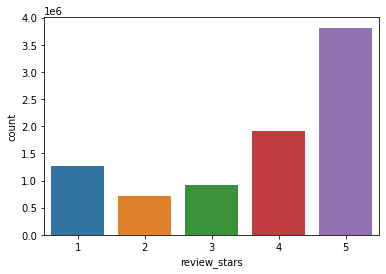
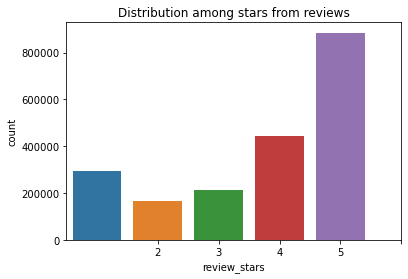
Basic Rough draft

Changed region(s): [[0.0, 0.0292, 0.9948, 0.9927], [0.0622, 0.2336, 0.1244, 0.292]]

diff --git a/README.md b/README.md
@@ -20,7 +20,19 @@ This could give the company insights not easily available on sites where ratings
 
 > Show demo of model
 
-### Technology Stack
+Link: <Pending Link>
+
+Currently the LogisticRegression model is a viable candidate to be used in production for analyzing reviews of services or food. 
+
+Current Stats: 
+
+**Classification Report:**
+
+![Classification Report](2million_classificationReport_linReg.PNG)
+
+
+
+## Technology Stack
 
 I'll be using these technologies for this project:
 
@@ -51,27 +63,108 @@ This capstone uses the Yelp dataset found on [Kaggle](https://www.kaggle.com/yel
 * Tips Data
 * User Data
 
-The scope of this capstone only requires data from the Review Data JSON file to analyze. From this data I import it using 
+### Stage 1 - Read in From JSON files into Postgres
+
+**Overview**
+
+* Read in JSON files
+* General observations on the features found in each file
+* Modifying feature names to meet Postgres naming convention
+* Normalized the data to prepare for import to Postgres
+* Saved copies of each table as CSV file for backup incase Database goes down
+* Exported data into Postgres
+
+As stated above, Kaggle provided several JSON files with a large amount of data that needed to be stored in a location for easy access and provide a quick way to query data on the fly. As the files were read in Jupyter notebook a general observation was made to the feature names and amount each file contained to see what data I was dealing with along with the types associated with them. The business data contained a strange amount of attributes that had to be broken up into separate data frames to be normalized for Postgres. 
+
+### Stage 2 -  Pre-Processing Data
+
+**Overview**
+
+* Read in data from Postgres
+* IDing Null Values
+* Removing Sparse features
+* Saved data frame as a pickle to be used in model training
+
+### Stage 3 - Cleaning Up Data
+
+**Overview**
+
+* Removed special characters, dates, emails, and URLs
+* Removed stop_words
+* Remove non-English reviews
+* [IMPROVE] Replace contractions
+* [IMPROVE] Remove newline and tab characters
+* [IMPROVE] Balance Data with either SMOTE or Oversampling
 
 ## Elementary Data Analysis
 
-Aggregating all the data I looked at the null values found in the dataset:
+### Analyzing Null Values in Dataset
 
-![Heatmap of several million rows of data.](C:\Users\RSanchez\GitHub\Sentiment_Analysis\null_heatmap.png)
+Below is a visualization of the data provided by Kaggle showing which features have "NaN " values. Its is clear that the review ratings (review_stars) and reviews (text) are fully populated. Some of the business attributes are sparse but have enough values to be useful for other things. Note several other features were dropped in the Data Processing since they did not provide any insights for the scope of this project.
 
-Looking at this I have reviews for every business 
+![Heatmap of several million rows of data.](null_heatmap.png)
 
-Analyzing the review data showed not that much to consider apart from that there was an imbalance in the data.
+### Looking Closer at the Ratings (review_stars)
 
-Below is a graph of the distribution of the ratings between 1 to 5:
+This is a sample of 2 million rows from the original 8 million in the dataset. This distribution of ratings has a left skew on it where most of the reviews are 4 to 5 stars.
 
 ![A bar graph showing the distribution of ratings between 1 to 5. there is a significant amount of 5 stars compared to 1-3 combined.](ratings_distribution.png)
 
+I simplified the ratings to better categorize the sentiment of the review by grouping 1 and 2 star reviews as 'negative', 3 star review as 'neutral', and 4 and 5 star reviews as 'positive'.
 
+![Simplified Barchar showing just the negative, neutral, and positive ratings](ratings_distribution_simplified.png)
+
+### Looking Closer at the Reviews (text)
+
+In order to analyze the text I've calculated the length of each review in the sample and plotted a distribution graph showing them the number of characters of each review. The statistics were that the median review was approx. 606 characters with a range of 0 through 5000 characters.
+
+
+
+![Showing a distribution chart of the length of the reviews. Clearly the distribution skews right with a median around 400 characters.](distribution_of_review_length.png)
+
+A closer inspection on the range 0 - 2000 we can see that most of  the reviews are around this general area. 
+
+![A zoomed in version of the same distribution chart now focusing on 0 - 2000 characters](distribution_of_review_length_trimmed.png)
+
+In order to produce a viable word cloud I've had to process all of the text in the sample to remove special characters and stop words from NLTK to produce a viable string to be used in word cloud. Below is a visualization of all of the key words found in the positive reviews.
+
+![Created a word cloud from the positive words after cleaning](wordCloud_positive.png)
+
+As expected, words like "great", "amazing", "good", "love", and "best" came out on top.
+
+![A word cloud showing all the words from the negative reviews](wordCloud_negative.png)
+
+On the negative word cloud, words like "problem", "customer service", "least", "mean",  and "issue" are appearing on the word cloud. 
 
 ## Model Training
 
+* The logistic regression model was built using a pipeline with TfidfVectorizer
+* Was training using StratifiedKFold for cross-validator with 5 splits
+* Final Results were as pictured above
+* 
+
 ## Testing Model
+
+After the model was trained, I fed it some reviews I found online to test out whether or not the model can properly detect the right sentiment. The following reviews are ordered as "Negative", "Neutral", and "Positive":
+
+```python
+new_test_data = [
+    "This was the worst place I've ever eaten at. The staff was rude and did not take my order until after i pulled out my wallet.",
+    "The food was alright, nothing special about this place. I would recommend going elsewhere.",
+    "I had a pleasent time with kimberly at the granny shack. The food was amazing and very family friendly.",
+]
+res = model.prediction(new_test_data)
+```
+
+Below is the results of the prediction, notice that the neutral review has been labeled as negative. This makes sense since the model has a poor recall for neutral reviews as shown in the classification report.
+
+<img src="results.PNG" alt="Results from the prediction" style="zoom:150%;" />
+
+
 
 ## End Notes
 
+There are some improvements to be made such as the follow:
+
+* Better text cleaning
+* Balancing the data
